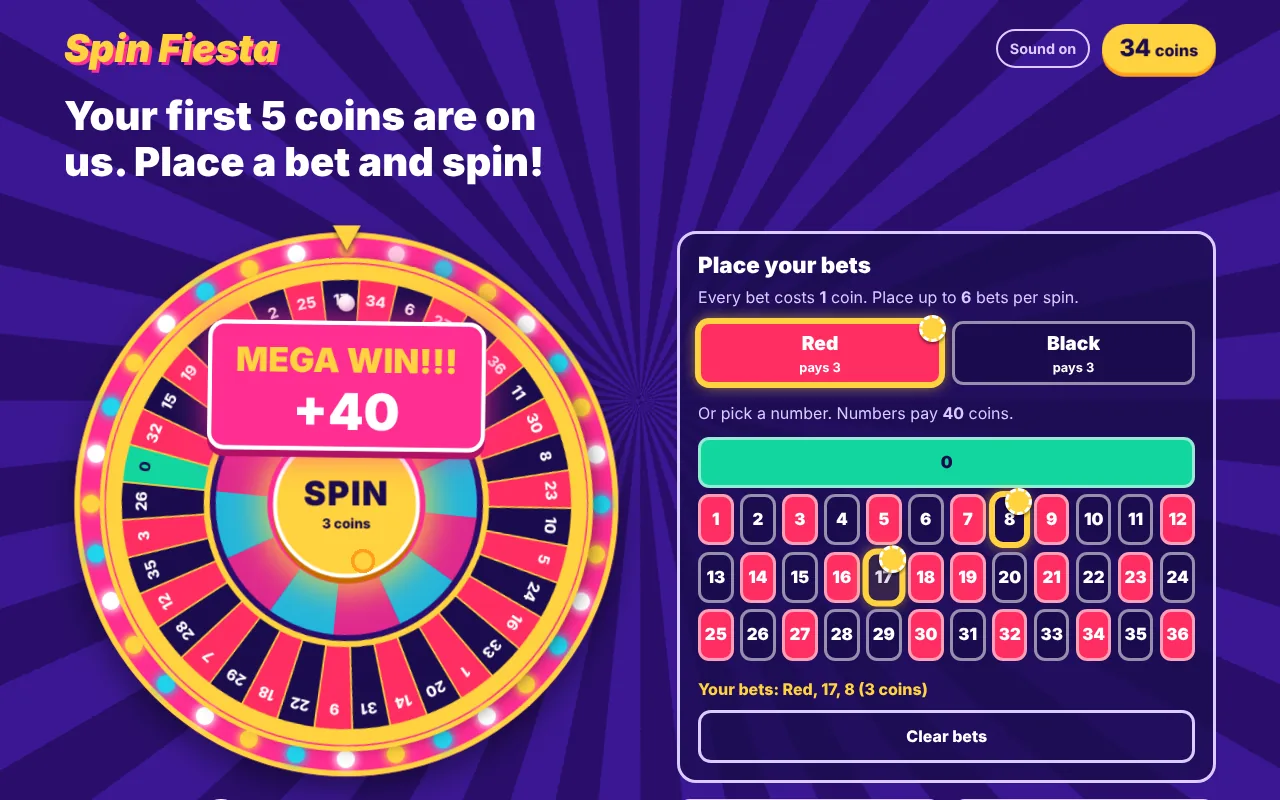
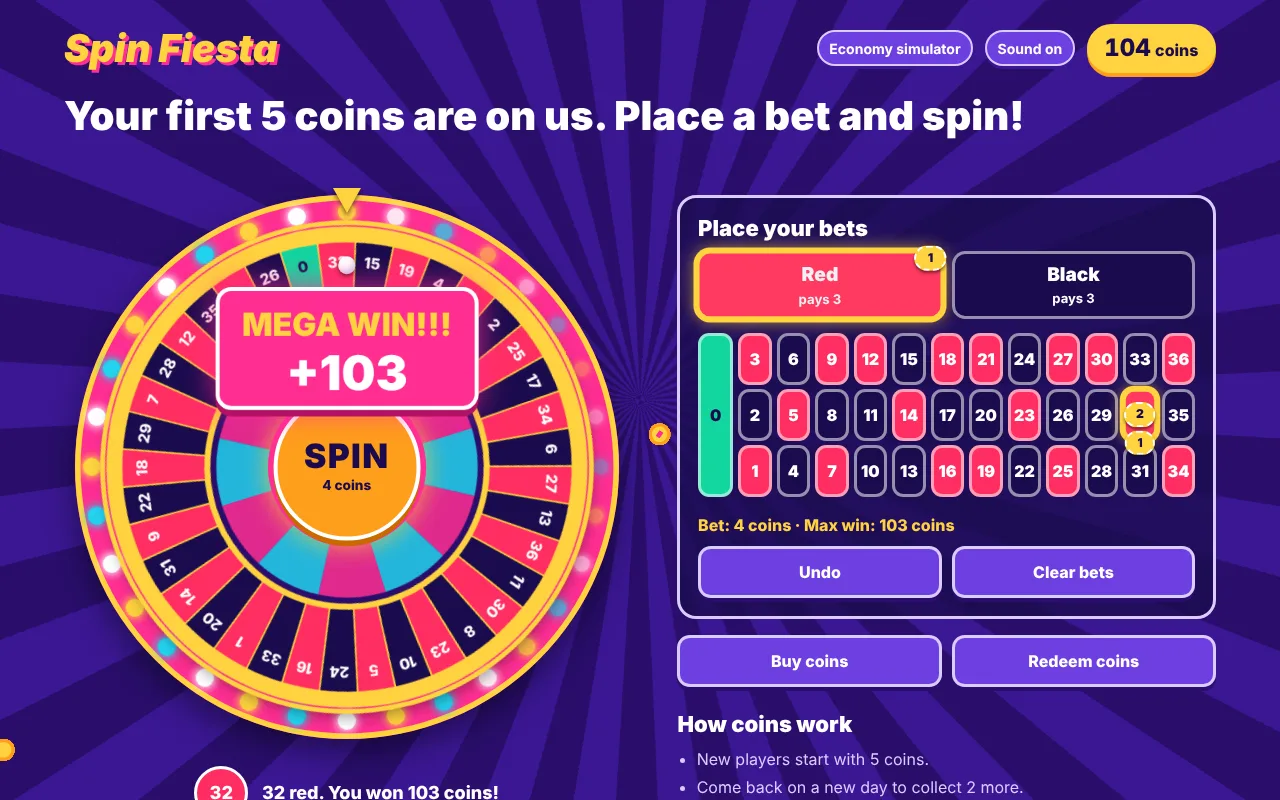
Add files via upload

diff --git a/projects.html b/projects.html
@@ -129,12 +129,17 @@
               <p class="pj-tagline">A free to play roulette game that shows how I think about onboarding, daily return and monetisation.</p>
               <ul class="pj-points">
                 <li><span>A welcome popup gives new players 5 coins, and returning players claim 2 coins every day.</span></li>
-                <li><span>Bet on red, black or any number from 0 to 36, with win streaks, bonus coins and a celebration that grows with the win.</span></li>
-                <li><span>When coins run out, a popup offers tomorrow's coins or a demo coin shop. Coins can also be redeemed for prizes.</span></li>
+                <li><span>A real roulette table: bet on red, black, single numbers, splits and corners, stack coins on any spot, and see your max win before you spin.</span></li>
+                <li><span>Win streaks, bonus coins and a celebration that grows with the win. When coins run out, a popup offers tomorrow's coins or a demo coin shop.</span></li>
                 <li><span>Tracks key events and runs an A/B headline test through a URL parameter.</span></li>
               </ul>
+              <div class="pj-companion">
+                <p class="pj-companion-label"><i class="fa-solid fa-chart-line" aria-hidden="true"></i> Companion tool: Coin Lab</p>
+                <p>An economy simulator I built to stress test the game. Running Spin Fiesta through it showed careful players almost never run out of coins, while risky players go broke within a few spins.</p>
+              </div>
               <div class="pj-actions">
                 <a class="pj-btn" href="https://natams.github.io/spin-fiesta/" target="_blank" rel="noopener">Play the game <i class="fa-solid fa-arrow-right" aria-hidden="true"></i></a>
+                <a class="pj-btn pj-btn--ghost" href="https://natams.github.io/spin-fiesta/coin-lab.html" target="_blank" rel="noopener">Try the simulator <i class="fa-solid fa-arrow-right" aria-hidden="true"></i></a>
                 <a class="pj-btn pj-btn--ghost" href="https://github.com/natams/spin-fiesta" target="_blank" rel="noopener"><i class="fa-brands fa-github" aria-hidden="true"></i> GitHub</a>
               </div>
               <p class="pj-note">Play money only. No real payments.</p>
@@ -143,7 +148,7 @@
             <a class="pj-stage" href="https://natams.github.io/spin-fiesta/" target="_blank" rel="noopener" aria-label="Play Spin Fiesta">
               <span class="pj-browser">
                 <span class="pj-browser-bar"><span></span><span></span><span></span></span>
-                <img src="images/projects/spin-fiesta-desktop.webp" alt="Spin Fiesta on desktop" loading="lazy" decoding="async">
+                <img src="images/projects/spin-fiesta-desktop.webp" alt="Spin Fiesta on desktop with coins stacked on the table and a mega win" loading="lazy" decoding="async">
               </span>
               <span class="pj-phone">
                 <img src="images/projects/spin-fiesta-mobile.webp" alt="Spin Fiesta on mobile showing a mega win" loading="lazy" decoding="async">

diff --git a/style.css b/style.css
@@ -447,7 +447,7 @@ h2 {
 .marquee-content {
 	display: flex;
 	align-items: center;
-	gap: 50px;
+	gap: 30px;
 	animation: marqueeMove 80s linear infinite;
 	width: max-content;
 	white-space: nowrap;
@@ -1293,6 +1293,32 @@ input:checked+.slider .off {
 	margin: 0.6em 0em 0em 0em;
 	border-radius: 50%;
 	background: linear-gradient(115deg, #194bff, #9d00ff 55%, #ff308a);
+}
+
+.pj-companion {
+	margin: 0em 0em 0.25em 0em;
+	padding: 0.9em 1.1em;
+	border: solid 1px #ffffff1f;
+	border-left: solid 3px #bc50ff;
+	border-radius: 0 14px 14px 0;
+	background-color: #ffffff08;
+}
+
+.pj-companion p {
+	margin: 0;
+	color: #b3b3c6;
+	font-size: 0.95em;
+}
+
+.pj .pj-companion .pj-companion-label {
+	margin: 0em 0em 0.3em 0em;
+	color: #ffffff;
+	font-weight: 700;
+}
+
+.pj-companion-label i {
+	margin: 0em 0.35em 0em 0em;
+	color: #bc50ff;
 }
 
 .pj-note {
